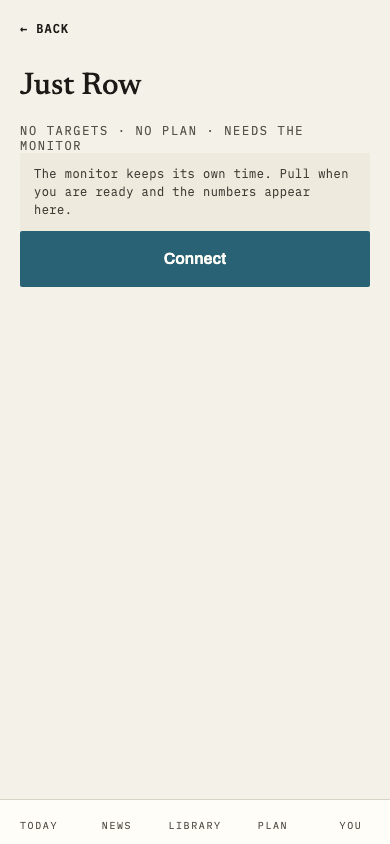
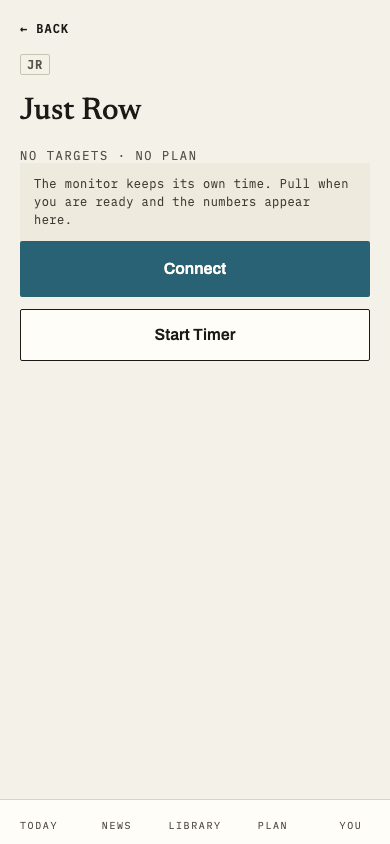
captures: the unconnected Just Row screens (timer, landscape, time-only door, history chip) + the door with Start Timer
Claude-Session: https://claude.ai/code/session_013Zebvh9Rq7cXCKg9k1TN2b

Changed region(s): [[0.0308, 0.0616, 0.9538, 0.4313], [0.9231, 0.4005, 0.9538, 0.4313]]

diff --git a/app/e2e/screenshots.spec.ts b/app/e2e/screenshots.spec.ts
@@ -2447,7 +2447,9 @@ async function postLog(
   page: Page,
   body: {
     workoutTitle: string;
-    workoutType: string;
+    // Null with `workoutId: null` (the helper's default) is a FREE ROW —
+    // `justrow-history-chip` seeds one that came through the monitor.
+    workoutType: string | null;
     held?: "held" | "under" | "over" | null;
     pain?: number | null;
     thumbs?: "up" | "down" | null;
@@ -2461,6 +2463,11 @@ async function postLog(
     // as a monitor row, so a capture wanting a genuinely pm5-attributed
     // session must set this explicitly.
     deviceName?: string | null;
+    // Just Row unconnected spec (2026-09-02), stored shape (c): the row's
+    // own door, `pm5 | timer | manual`. Optional on the wire (the server
+    // derives it when absent — a sunset item, ROADMAP), and a seeded row
+    // that names its door is the honest shape, so captures set it.
+    source?: "pm5" | "timer" | "manual";
     // Task 5's own "log-detail" capture: real measured/judged rows and,
     // via `advancesPlan` below, genuine plan linkage — both need fields
     // this helper's original narrower signature (§5G's own hero-snippet
@@ -4766,5 +4773,111 @@ test("justrow-log", async ({ page }) => {
   await expect(page.getByText("PAIN", { exact: true })).toBeVisible();
   await page.screenshot({
     path: path.join(SCREENSHOTS_DIR, "justrow-log.png"),
+  });
+});
+
+// Just Row WITHOUT the monitor (spec 2026-09-02; handoff
+// `docs/design/handoffs/2026-09-02-just-row-unconnected/`): the phone's own
+// clock times the row. No fake is injected — nothing here touches the
+// monitor seam — and the clock is REAL time, so each capture stands on the
+// screen long enough for the count-up to read a few seconds, never `0:00`.
+
+/** The door → Start Timer → the shipped Timer wearing the free-row words
+ *  (`Clock.dc.html`: STEP slot `JUST ROW`, both target slots `Free`, UP
+ *  NEXT `FINISH`), a few seconds in. */
+async function openJustRowTimer(page: Page, email: string): Promise<void> {
+  await signInViaBackdoor(page, { email, name: "Screenshot Tester" });
+  await page.goto("/justrow");
+  await page.getByRole("button", { name: "Start Timer" }).click();
+  await expect(page).toHaveURL(/\/session\/run$/);
+  await expect(page.getByText("JUST ROW", { exact: true })).toBeVisible();
+  // Four seconds of wall clock: the capture shows a clock that has moved,
+  // and a reviewer can see the count-up is a count-UP (0:04, not 4:00).
+  await expect(page.getByText("0:04").first()).toBeVisible({
+    timeout: 10_000,
+  });
+}
+
+test("justrow-timer", async ({ page }) => {
+  await openJustRowTimer(page, "screenshots-justrow-timer@e2e.test");
+  await page.screenshot({
+    path: path.join(SCREENSHOTS_DIR, "justrow-timer.png"),
+  });
+});
+
+test("justrow-timer-landscape", async ({ page }) => {
+  await openJustRowTimer(page, "screenshots-justrow-timer-landscape@e2e.test");
+  await page.setViewportSize({ width: 844, height: 390 });
+  await expect(page.getByText("JUST ROW", { exact: true })).toBeVisible();
+  await page.screenshot({
+    path: path.join(SCREENSHOTS_DIR, "justrow-timer-landscape.png"),
+  });
+});
+
+/** ▶ → `Finish this session?` → `Finish session` → the time-only log door
+ *  (`LogDoor.dc.html`): `Just Row`, `<date> · TIMER`, TIME alone. */
+async function finishJustRowTimer(page: Page): Promise<void> {
+  await page.getByRole("button", { name: "Next phase" }).click();
+  await expect(page.getByText("Finish this session?")).toBeVisible();
+  await page.getByRole("button", { name: "Finish session" }).click();
+  await expect(page).toHaveURL(/\/justrow\/log$/);
+  await expect(page.getByText("TIME", { exact: true })).toBeVisible();
+}
+
+test("justrow-log-timer", async ({ page }) => {
+  await openJustRowTimer(page, "screenshots-justrow-log-timer@e2e.test");
+  await finishJustRowTimer(page);
+  await expect(page.getByText("PAIN", { exact: true })).toBeVisible();
+  await page.screenshot({
+    path: path.join(SCREENSHOTS_DIR, "justrow-log-timer.png"),
+  });
+});
+
+// History with BOTH free rows (`History.dc.html`): the phone-timed row
+// (walked through the real door above, so it is the supported producer's
+// own row — title and date, no second line, the JR chip) above a CONNECTED
+// free row seeded through the API the way every other history capture
+// seeds rows — `deviceName` + `source: "pm5"`, a hero pair — so the chip
+// sits beside an `AVG · m` second line (the wrap case the antagonist pass
+// flagged: the chip must not push the snippet off its own line). A typed
+// row beneath both shows the chip against a filled type badge.
+test("justrow-history-chip", async ({ page }) => {
+  await signInViaBackdoor(page, {
+    email: "screenshots-justrow-history-chip@e2e.test",
+    name: "Screenshot Tester",
+  });
+  await postLog(page, {
+    workoutTitle: "Sea Fret",
+    workoutType: "O2",
+    held: "held",
+    pain: 2,
+    avgSplitSeconds: 124.5,
+    distanceMeters: 5000,
+  });
+  await postLog(page, {
+    workoutTitle: "Just Row",
+    workoutType: null,
+    steps: [],
+    avgSplitSeconds: 147.4,
+    distanceMeters: 311,
+    timeSeconds: 91.7,
+    deviceName: "PM5 432331249",
+    source: "pm5",
+  });
+  // The phone-timed row LAST, so it sits at the top: the same flow
+  // `justrow-log-timer` captures, then Save.
+  await page.goto("/justrow");
+  await page.getByRole("button", { name: "Start Timer" }).click();
+  await expect(page).toHaveURL(/\/session\/run$/);
+  await expect(page.getByText("0:03").first()).toBeVisible({
+    timeout: 10_000,
+  });
+  await finishJustRowTimer(page);
+  await page.getByRole("button", { name: "Save this row" }).click();
+  await expect(page).toHaveURL(/\/today\/log$/);
+  await expect(page.locator(".today-log-row")).toHaveCount(3);
+  await expect(page.locator(".free-row-chip")).toHaveCount(2);
+  await page.screenshot({
+    path: path.join(SCREENSHOTS_DIR, "justrow-history-chip.png"),
   });
 });
